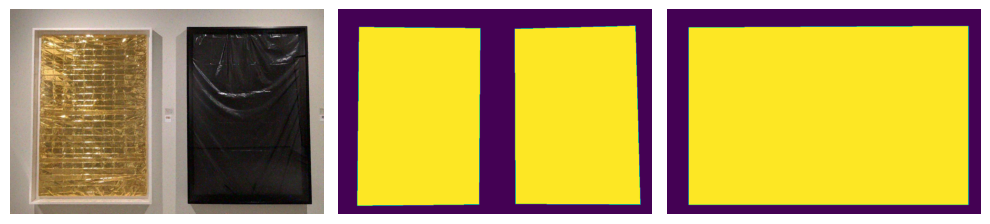
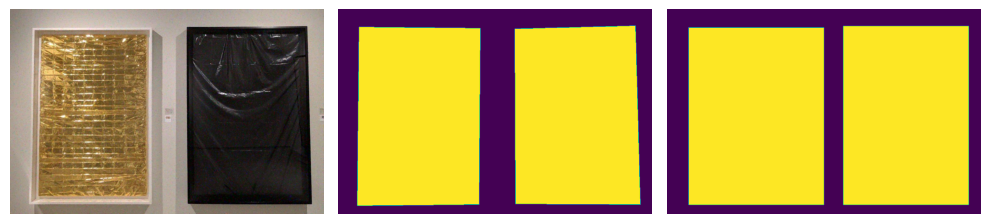
fix

Changed region(s): [[0.697, 0.0938, 0.9394, 0.9375]]

diff --git a/src/background.py b/src/background.py
@@ -133,7 +133,7 @@ def get_painting_side_masks(image: Image) -> (np.ndarray, np.ndarray):
     return left_mask, right_mask
 
 
-def inpaint_mask(mask: np.ndarray, crop_side: str) -> np.ndarray:
+def inpaint_mask(mask: np.ndarray, crop_side: str, n_margin_cols: int = 10, min_pctg_col: float = 0.2) -> np.ndarray:
     """
     Fill gaps in a binary mask by identifying edges of the painting and filling the area between them.
     Adjusts fill range based on whether the painting touches the left or right side of the mask.
@@ -176,9 +176,9 @@ def inpaint_mask(mask: np.ndarray, crop_side: str) -> np.ndarray:
     col_start, col_end = filled_cols.min(), filled_cols.max()
 
     # Handle cases where the painting reaches the side boundaries
-    if crop_side == "left" and filled_mask[(row_fill_ratios > row_threshold), -1].any():
+    if crop_side == "left" and mask[(row_fill_ratios > row_threshold), -1].any():
         col_end = filled_mask.shape[1]  # Fill to the right edge if painting touches the right side
-    elif crop_side == "right" and filled_mask[(row_fill_ratios > row_threshold), 0].any():
+    elif crop_side == "right" and mask[(row_fill_ratios > row_threshold), -0].any():
         col_start = 0  # Fill to the left edge if painting touches the left side
 
     # Fill the inpaint area within detected boundaries
@@ -193,7 +193,7 @@ def inpaint_mask(mask: np.ndarray, crop_side: str) -> np.ndarray:
     return filled_mask
 
 
-def fill_painting_mask(mask: np.ndarray, side: str, n_margin_cols: int = 10, n_margin_rows: int = 10) -> np.ndarray:
+def fill_painting_mask(mask: np.ndarray, side: str, n_margin_cols: int = 10, n_margin_rows: int = 10, min_pctg_col: float = 0.2) -> np.ndarray:
     """
     Fills the mask of a painting by keeping only the largest connected components
     and clearing margins based on specified side.
@@ -231,7 +231,7 @@ def fill_painting_mask(mask: np.ndarray, side: str, n_margin_cols: int = 10, n_m
 
     # Mask for the largest connected components
     largest_components_mask = np.isin(labels, indices).astype(np.uint8) * 255
-    filled_largest_components_mask = inpaint_mask(largest_components_mask, side)
+    filled_largest_components_mask = inpaint_mask(largest_components_mask, side, n_margin_cols, min_pctg_col)
 
     return filled_largest_components_mask
 
@@ -280,7 +280,7 @@ def correct_vertical_transition_in_concatenated_mask(mask: np.ndarray) -> np.nda
     return corrected_mask
 
 
-def get_painting_masks(image: Image, n_margin_cols: int = 10, n_margin_rows: int = 10) -> np.ndarray:
+def get_painting_masks(image: Image, n_margin_cols: int = 10, n_margin_rows: int = 10, min_pctg_col: float = 0.2) -> np.ndarray:
     """
     Generates a concatenated mask of a painting image by processing the left and right sides separately,
     filling the masks, and applying vertical transition correction if necessary.
@@ -303,14 +303,16 @@ def get_painting_masks(image: Image, n_margin_cols: int = 10, n_margin_rows: int
     left_mask, right_mask = get_painting_side_masks(image)
 
     # Fill the painting masks for each side
-    filled_left_mask = fill_painting_mask(left_mask, side="left", n_margin_cols=n_margin_cols, n_margin_rows=n_margin_rows)
-    filled_right_mask = fill_painting_mask(right_mask, side="right", n_margin_cols=n_margin_cols, n_margin_rows=n_margin_rows)
+    filled_left_mask = fill_painting_mask(left_mask, side="left", n_margin_cols=n_margin_cols,
+                                          n_margin_rows=n_margin_rows, min_pctg_col=min_pctg_col)
+    filled_right_mask = fill_painting_mask(right_mask, side="right", n_margin_cols=n_margin_cols,
+                                           n_margin_rows=n_margin_rows, min_pctg_col=min_pctg_col)
 
     # Concatenate the filled masks along the horizontal axis
     concatenated_mask = np.concatenate((filled_left_mask, filled_right_mask), axis=1)
 
     # Apply vertical transition correction if there is overlap between left and right masks at the boundary
-    if filled_left_mask[:, -1].any() or filled_right_mask[:, 0].any():
+    if filled_left_mask[:, -1].any() and filled_right_mask[:, 0].any():
         concatenated_mask = correct_vertical_transition_in_concatenated_mask(concatenated_mask)
 
     return concatenated_mask

diff --git a/src/utils.py b/src/utils.py
@@ -1,6 +1,7 @@
 import matplotlib.pyplot as plt
 from pathlib import Path
 import numpy as np
+from skimage import filters
 
 
 def show_images(images: list[np.ndarray], n_cols: int = 3, output_file: str | Path | None = None):
@@ -42,3 +43,68 @@ def show_images(images: list[np.ndarray], n_cols: int = 3, output_file: str | Pa
         plt.close()
     else:
         plt.show()
+
+
+def show_image_with_mean_values(image_array: np.ndarray) -> None:
+    """
+    Displays an image along with the mean values of its rows and columns.
+
+    The function normalizes the input image, computes the mean values for both
+    rows and columns, applies Otsu's method to find optimal thresholds, and
+    visualizes the results in a grid layout.
+
+    Parameters:
+    -----------
+    image_array : np.ndarray
+        The input image array to be displayed. It should be a 2D array
+        representing a grayscale image.
+
+    Returns:
+    --------
+    None
+    """
+    # Copy and normalize the image array
+    image_array = np.copy(image_array)
+    image_array = (image_array - image_array.min()) / (image_array.max() - image_array.min())
+
+    # Calculate mean values for rows and columns
+    mean_rows = image_array.mean(axis=1)
+    mean_cols = image_array.mean(axis=0)
+
+    # Calculate thresholds using Otsu's method
+    threshold_rows = filters.threshold_otsu(mean_rows)
+    threshold_cols = filters.threshold_otsu(mean_cols)
+
+    # Create a figure with subplots
+    fig = plt.figure(figsize=(8, 8))
+    grid = plt.GridSpec(2, 2, width_ratios=[1, 1], height_ratios=[1, 1], hspace=0, wspace=0)
+
+    # Main image subplot
+    ax_image = fig.add_subplot(grid[1, 0])
+    ax_image.imshow(image_array, aspect='auto')
+    ax_image.axis('off')  # Turn off axis labels for the main image
+
+    # Plot mean of columns (top)
+    ax_cols = fig.add_subplot(grid[0, 0], sharex=ax_image)
+    ax_cols.plot(np.arange(len(mean_cols)), (mean_cols > threshold_cols), color='black', label='Above Threshold')
+    ax_cols.plot(np.arange(len(mean_cols)), mean_cols, color='red', label='Mean Columns')
+    ax_cols.axhline(y=threshold_cols, color='green', linestyle='--', label=f'Threshold = {threshold_cols:.2f}')
+    ax_cols.set_xticks([])
+    ax_cols.set_yticks([0, 0.25, 0.5, 0.75, 1])  # Set ticks for normalized values
+    ax_cols.set_yticklabels([0, 0.25, 0.5, 0.75, 1])
+    ax_cols.grid(True)
+    ax_cols.legend()
+
+    # Plot mean of rows (right)
+    ax_rows = fig.add_subplot(grid[1, 1], sharey=ax_image)
+    ax_rows.plot((mean_rows > threshold_rows), np.arange(len(mean_rows)), color='black', label='Above Threshold')
+    ax_rows.plot(mean_rows, np.arange(len(mean_rows)), color='blue', label='Mean Rows')
+    ax_rows.axvline(x=threshold_rows, color='green', linestyle='--', label=f'Threshold = {threshold_rows:.2f}')
+    ax_rows.set_xticks([0, 0.25, 0.5, 0.75, 1])  # Set ticks for normalized values
+    ax_rows.set_xticklabels([0, 0.25, 0.5, 0.75, 1])
+    ax_rows.set_yticks([])
+    ax_rows.grid(True)
+    ax_rows.legend()
+
+    plt.tight_layout()  # Adjust layout
+    plt.show()  # Display the plots
